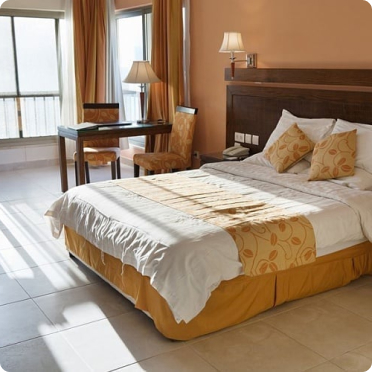
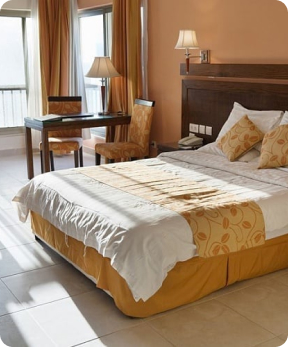
новые изменения

diff --git a/css/style.css b/css/style.css
@@ -1,8 +1,3 @@
-
-* {
-  /*outline: 1px solid red;*/
-}
-
 .page {
   height: 100%;
   box-sizing: border-box;
@@ -18,13 +13,10 @@
 }
 
 .header {
-  padding: 239px 0 0 0;
+  margin: 239px 0 0 0;
 }
 
 .header__title {
-  display: -webkit-box;
-  -webkit-line-clamp: 1;
-  -webkit-box-orient: vertical;
   overflow: hidden;
   margin: 0 auto;
   font-family: "Roboto", "Arial", sans-serif;
@@ -32,10 +24,12 @@
   font-size: 36px;
   line-height: 55px;
   text-align: center;
+  text-overflow: ellipsis;
+  white-space: nowrap;
 }
 
 .main {
-  margin: 28px 0 0 0;
+  margin: 27px 0 0 0;
   padding: 0 0 25px 0;
 }
 
@@ -66,6 +60,10 @@
 
 .card-wrapper:hover {
   box-shadow: 0 4px 15px rgba(0, 0, 0, 0.6);
+}
+
+.card-wrapper--active:hover {
+  box-shadow: none;
 }
 
 .card {
@@ -99,6 +97,10 @@
   text-decoration: underline;
 }
 
+.card__title:active {
+  color: rgba(255, 255, 255, 0.5);
+}
+
 .card__description {
   display: -webkit-box;
   -webkit-line-clamp: 3;
@@ -127,22 +129,20 @@
 }
 
 .area-price__head {
-  margin: 0;
-  display: -webkit-box;
-  -webkit-line-clamp: 1;
-  -webkit-box-orient: vertical;
+  margin: 1px 0 0 0;
   overflow: hidden;
   font-family: "Open Sans", "Arial", sans-serif;
   font-weight: 700;
   font-size: 16px;
   line-height: 24px;
+  text-overflow: ellipsis;
+  white-space: nowrap;
 }
 
 .area-price__text {
-  margin: 0;
-  display: -webkit-box;
-  -webkit-line-clamp: 1;
-  -webkit-box-orient: vertical;
+  margin: 0 0 -1px 0;
+  text-overflow: ellipsis;
+  white-space: nowrap;
   overflow: hidden;
   font-family: "Roboto", "Arial", sans-serif;
   font-weight: 700;
@@ -189,11 +189,12 @@
 }
 
 .button:active {
-  color: #F9637C;
+  color: #f9637c;
   background: #f91155;
 }
 
-.button__text{
+.button__text {
+  margin: 0 0 0 2px;
   display: -webkit-box;
   -webkit-line-clamp: 3;
   -webkit-box-orient: vertical;
@@ -219,7 +220,6 @@
   display: none;
   width: 100%;
   height: 100%;
-
   background: rgba(255, 255, 255, 0.4);
   border-radius: 10px;
 }
@@ -246,9 +246,6 @@
 
 .reserved__text {
   margin: 0;
-  display: -webkit-box;
-  -webkit-line-clamp: 1;
-  -webkit-box-orient: vertical;
   overflow: hidden;
   font-family: "Open Sans", "Arial", sans-serif;
   font-weight: 400;
@@ -256,6 +253,8 @@
   color: #ffffff;
   text-align: center;
   line-height: 21px;
+  text-overflow: ellipsis;
+  white-space: nowrap;
 }
 
 .reserved__text-link {
@@ -265,31 +264,52 @@
 
 .reserved__text-link:hover {
   cursor: pointer;
+  text-decoration: underline;
+}
+
+.reserved__text-link:active {
+  color: #ff97b0;
 }
 
 .best-price {
   position: absolute;
-  top: 24px;
+  top: 25px;
   left: 24px;
   z-index: 10;
-  height: 30px;
-  padding: 4px 45px 5px 15px;
   box-sizing: border-box;
-  background-image: url(../img/best_price.svg);
-  background-repeat: no-repeat;
-  background-size: 100%;
+  padding: 6px 4px 3px 16px;
+  border-radius: 3px 0 0 3px;
+  background: #ff7647;
   opacity: 0;
+
 }
 
-.best-price__text{
-  font-family: SansSerif, sans-serif;
+.best-price::after {
+  display: inline-block;
+  position: absolute;
+  top: 0;
+  margin: 0 0 0 4px;
+  /*left: 0;*/
+  content: "";
+  width: 36px;
+  height: 30px;
+  background: url(../img/icon_discount.svg) no-repeat;
+}
+
+.best-price__text {
+  display: inline-block;
+  overflow: hidden;
+  text-overflow: ellipsis;
+  white-space: nowrap;
+  font-family: "Roboto", "Arial", sans-serif;
   font-weight: 700;
   font-size: 14px;
   color: #ffffff;
+  max-width: 175px;
 }
 
 .best-price--active {
-  opacity: 0;
+  opacity: 1;
   transition: 0.5s;
 }
 
@@ -301,7 +321,7 @@
 @media (min-width: 768px) and (max-width: 1279px) {
 
   .header {
-    padding: 27px 0 0 0;
+    margin: 27px 0 0 0;
   }
 
   .main {
@@ -321,6 +341,10 @@
 
   .card {
     padding: 24px;
+  }
+
+  .card__title {
+    margin: 0 0 2px 0;
   }
 
   .card__footer {
@@ -344,7 +368,7 @@
 @media (max-width: 767px) {
 
   .header {
-    padding: 24px 0 0 0;
+    margin: 24px 0 0 0;
   }
 
   .header__title {
@@ -387,7 +411,7 @@
   }
 
   .card__line {
-    margin: 21px 0 18px 0;
+    margin: 20px 0 18px 0;
   }
 
   .card__footer {
@@ -399,6 +423,7 @@
   }
 
   .area-price__head {
+    margin: 0;
     font-size: 14px;
     line-height: 21px;
   }
@@ -411,6 +436,7 @@
   .area-price__symbol-money,
   .area-price__cost {
     font-size: 20px;
+    margin: 0 0 0 -1px;
   }
 
   .card__area-button {
@@ -418,10 +444,13 @@
   }
 
   .button {
-    /*height: 42px;*/
     padding: 9px 10px;
     border-radius: 3px;
     font-size: 14px;
+  }
+
+  .button__text {
+    margin: -1px 0 1px 2px;
   }
 
   .card-wrapper__overlay {

diff --git a/room_cards.html b/room_cards.html
@@ -47,7 +47,9 @@
             <span class="best-price__text">Гарантия лучшей цены!</span>
           </div>
           <picture class="card-wrapper__image-container">
-            <img class="card-wrapper__image" width="744" height="744" src="img/room_1.jpg" alt="Представительский люкс">
+            <source srcset="img/room_1_medium.jpg" media="(max-width: 767px)">
+            <source srcset="img/room_1_medium.jpg" media="(max-width: 1279px)">
+            <img class="card-wrapper__image" src="img/room_1.jpg" width="372" height="372" alt="Представительский люкс">
           </picture>
         </li>
 
@@ -81,7 +83,9 @@
             <span class="best-price__text">Гарантия лучшей цены!</span>
           </div>
           <picture class="card-wrapper__image-container">
-            <img class="card-wrapper__image" width="744" height="744" src="img/room_2.jpg" alt="Дуплекс">
+            <source srcset="img/room_2_medium.jpg" media="(max-width: 767px)">
+            <source srcset="img/room_2_medium.jpg" media="(max-width: 1279px)">
+            <img class="card-wrapper__image" src="img/room_2.jpg" width="372" height="372" alt="Дуплекс">
           </picture>
         </li>
 
@@ -115,7 +119,9 @@
             <span class="best-price__text">Гарантия лучшей цены!</span>
           </div>
           <picture class="card-wrapper__image-container">
-            <img class="card-wrapper__image" width="744" height="744" src="img/room_3.jpg" alt="Бизнес-люкс">
+            <source srcset="img/room_3_medium.jpg" media="(max-width: 767px)">
+            <source srcset="img/room_3_medium.jpg" media="(max-width: 1279px)">
+            <img class="card-wrapper__image" src="img/room_3.jpg" width="372" height="372" alt="Бизнес-люкс">
           </picture>
         </li>
 
